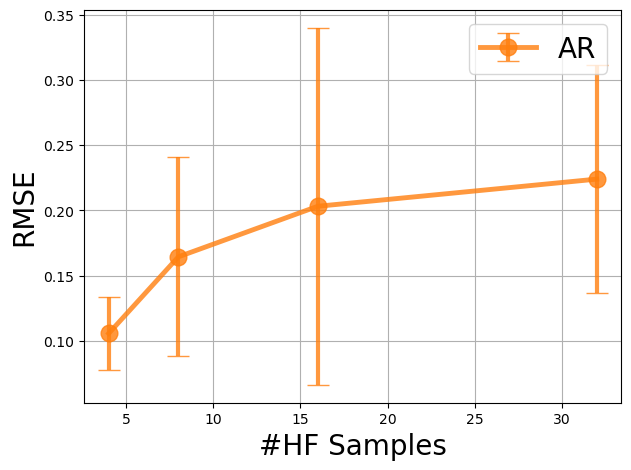
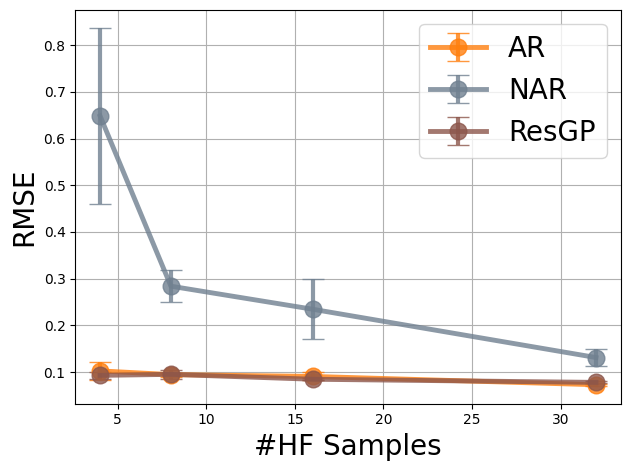
Adjusted the experimental format
Some bug in GAR and CIGAR in experiment need to fix

Changed region(s): [[0.0302, 0.0, 0.9952, 0.983]]

diff --git a/Experiments/GAR_Non_Aligned/exp_non_aligned.py b/Experiments/GAR_Non_Aligned/exp_non_aligned.py
@@ -3,24 +3,12 @@ import os
 sys.path.append(os.path.abspath(os.path.join(os.path.dirname(__file__), '..', '..')))
 
 import GaussianProcess.kernel as kernel
-from FidelityFusion_Models.AR_autoRegression import autoRegression as AR
-from FidelityFusion_Models.ResGP import ResGP
-from FidelityFusion_Models.NAR import NAR
-from FidelityFusion_Models.CIGAR import CIGAR
-from FidelityFusion_Models.GAR import GAR
-
-from FidelityFusion_Models.AR_autoRegression import train_AR
-from FidelityFusion_Models.ResGP import train_ResGP
-from FidelityFusion_Models.NAR import train_NAR
-from FidelityFusion_Models.CIGAR import train_CIGAR
-from FidelityFusion_Models.GAR import train_GAR
-
+from FidelityFusion_Models import *
 from FidelityFusion_Models.MF_data import MultiFidelityDataManager
 from Experiments.calculate_metrix import calculate_metrix
 
 import torch
 import time
-import torch.nn as nn
 import pandas as pd
 
 
@@ -41,12 +29,12 @@ gen_dataset = ['poisson_v4_02',
 interp_data = False
 
 model_dic = {'AR': AR, 'ResGP': ResGP, 'NAR': NAR, 'CIGAR': CIGAR, 'GAR': GAR}
-train_dic = {'AR': train_AR,'ResGp': train_ResGP, 'NAR': train_NAR,'CIGAR': train_CIGAR, 'GAR': train_GAR}
+train_dic = {'AR': train_AR,'ResGP': train_ResGP, 'NAR': train_NAR,'CIGAR': train_CIGAR, 'GAR': train_GAR}
 
 if __name__ == '__main__':
         
-        # method_list = ['AR', 'ResGP', 'NAR', 'CIGAR', 'GAR']
-        method_list = ['AR']
+        method_list = ['CIGAR']
+        # method_list = ['AR']
         for method in method_list:
             for _data_name in ['sample_data']:
                 for _seed in [0, 1]:
@@ -70,6 +58,10 @@ if __name__ == '__main__':
 
                         x_test = torch.linspace(0, 20, 100).reshape(-1, 1)
                         y_test = torch.sin(x_test)
+
+                        src_y_shape = y_high1.shape[1:]
+                        low_shape = [y_low[0].shape]
+                        high_shape = [y_high1[0].shape, y_high1[0].shape]
                     
                         initial_data = [
                                             {'fidelity_indicator': 0,'raw_fidelity_name': '0', 'X': x_low, 'Y': y_low},
@@ -78,14 +70,22 @@ if __name__ == '__main__':
 
                         T1 = time.time()
                         fidelity_manager = MultiFidelityDataManager(initial_data)
-                        kernel1 = kernel.SumKernel(kernel.LinearKernel(1), kernel.MaternKernel(1))
-                        model = model_dic[method](fidelity_num=2, kernel=kernel1, rho_init=1.0)
+                        kernel1 = kernel.SquaredExponentialKernel(length_scale = 1., signal_variance = 1.)
+
+                        if method == 'AR':
+                            model = model_dic[method](fidelity_num=2, kernel=kernel1, rho_init=1.0)
+                        elif method in ['CIGAR', 'GAR']:
+                            model = model_dic[method](fidelity_num=2, kernel=kernel1, l_shape=low_shape, h_shape=high_shape)
+                        else:
+                            model = model_dic[method](fidelity_num=2, kernel=kernel1)
 
                         train_dic[method](model, fidelity_manager, max_iter=100, lr_init=1e-2)
 
                         with torch.no_grad():
                             ypred, ypred_var = model(fidelity_manager,x_test)
-
+        
+                        # ypred = ypred.reshape(-1, * src_y_shape)
+                        # ypred_var = ypred_var.reshape(-1, * src_y_shape)
 
                         metrics = calculate_metrix(y_test = y_test, y_mean_pre = ypred.reshape(-1, 1), y_var_pre = ypred_var)
 

diff --git a/Experiments/GAR_Non_Aligned/exp_ar.py b/Experiments/GAR_Non_Aligned/exp_ar.py
@@ -3,17 +3,28 @@ import os
 sys.path.append(os.path.abspath(os.path.join(os.path.dirname(__file__), '..', '..')))
 
 import GaussianProcess.kernel as kernel
-from FidelityFusion_Models.AR_autoRegression import autoRegression
-from FidelityFusion_Models.AR_autoRegression import train_AR
+from FidelityFusion_Models import *
 from FidelityFusion_Models.MF_data import MultiFidelityDataManager
 from Experiments.calculate_metrix import calculate_metrix
 
 import torch
 import time
-import torch.nn as nn
 import pandas as pd
 
-
+model_dict = {
+    'AR': AR,
+    'ResGP': ResGP,
+    'NAR': NAR,
+    'CIGAR': CIGAR,
+    'GAR': GAR,
+}
+train_model = {
+    'AR': train_AR,
+    'ResGP': train_ResGP,
+    'NAR': train_NAR,
+    'CIGAR': train_CIGAR,
+    'GAR': train_GAR,
+}
 real_dataset = ['FlowMix3D_MF',
                 'MolecularDynamic_MF', 
                 'plasmonic2_MF', 
@@ -31,7 +42,8 @@ gen_dataset = ['poisson_v4_02',
 interp_data = False
 
 if __name__ == '__main__':
-        
+    model_sum = ['AR'] 
+    for model_name in model_sum:  
         for _data_name in ['sample_data']:
             for _seed in [0,1]:
                 recording = {'train_sample_num':[], 'rmse':[], 'nrmse':[], 'r2':[], 'nll':[], 'time':[]}
@@ -44,9 +56,9 @@ if __name__ == '__main__':
                     xlow_indices = torch.sort(xlow_indices).values
                     x_low = x_all[xlow_indices]
 
-                    xhigh_indices = torch.randperm(300)[:_high_fidelity_num]
+                    xhigh_indices = torch.randperm(500)[:_high_fidelity_num]
                     xhigh_indices = torch.sort(xhigh_indices).values
-                    x_high1 = x_low[xhigh_indices]
+                    x_high1 = x_all[xhigh_indices]
 
                     y_low = torch.sin(x_low) - torch.rand(300, 1) * 0.2 
                     y_high1 = torch.sin(x_high1) - torch.rand(_high_fidelity_num, 1) * 0.1
@@ -62,12 +74,16 @@ if __name__ == '__main__':
                     T1 = time.time()
                     fidelity_manager = MultiFidelityDataManager(initial_data)
                     kernel1 = kernel.SumKernel(kernel.LinearKernel(1), kernel.MaternKernel(1))
-                    AR = autoRegression(fidelity_num=2,kernel=kernel1,rho_init=1.0)
+                    model_define = model_dict[model_name]
+                    if model_name in ['CIGAR', 'GAR']:
+                        pass
+                    else:
+                        model = model_define(fidelity_num=2,kernel=kernel1)
 
-                    train_AR(AR,fidelity_manager, max_iter=100, lr_init=1e-2)
+                    train_model[model_name](model,fidelity_manager, max_iter=100, lr_init=1e-2)
 
                     with torch.no_grad():
-                        ypred, ypred_var = AR(fidelity_manager,x_test)
+                        ypred, ypred_var = model(fidelity_manager,x_test)
 
 
                     metrics = calculate_metrix(y_test = y_test, y_mean_pre = ypred.reshape(-1, 1), y_var_pre = ypred_var)

diff --git a/FidelityFusion_Models/GAR.py b/FidelityFusion_Models/GAR.py
@@ -11,11 +11,11 @@ from FidelityFusion_Models.MF_data import MultiFidelityDataManager
 import matplotlib.pyplot as plt
         
 class GAR(torch.nn.Module):
-    def __init__(self, kernel, l_shape, h_shape, fidelity, nonsubset = False):
+    def __init__(self, fidelity_num, kernel, l_shape, h_shape, nonsubset = False):
         super().__init__()
         self.l_shape = l_shape
         self.h_shape = h_shape
-        self.fidelity_num = fidelity
+        self.fidelity_num = fidelity_num
         self.hogp_list = []
         for i in range(self.fidelity_num):
             self.hogp_list.append(HOGP_simple(kernel = kernel, noise_variance = 1.0, output_shape = h_shape[i]))
@@ -42,14 +42,14 @@ class GAR(torch.nn.Module):
                 if fidelity_num == 1:
                     mean_high = mean_low
                     var_high = var_low
-                    var_high = torch.diag_embed(torch.flatten(var_high))
+                    # var_high = torch.diag_embed(torch.flatten(var_high))
             else:
                 x_train, _ = data_manager.get_data_by_name('res-{}'.format(i_fidelity))
                 mean_res, var_res = self.hogp_list[i_fidelity].forward(x_train, x_test)
 
                 mean_high = self.Tensor_linear_list[i_fidelity - 1](mean_low) + mean_res
                 var_high = self.Tensor_linear_list[i_fidelity - 1](var_low) + var_res
-                var_high = torch.diag_embed(torch.flatten(var_high))
+                # var_high = torch.diag_embed(torch.flatten(var_high))
 
                 ## for next fidelity
                 mean_low = mean_high
@@ -135,7 +135,7 @@ if __name__ == "__main__":
     fidelity_manager = MultiFidelityDataManager(initial_data)
 
     kernel1 = kernel.SquaredExponentialKernel(length_scale = 1., signal_variance = 1.)
-    myGAR = GAR(kernel1, low_shape, high_shape, fidelity = 3, nonsubset = True)
+    myGAR = GAR(3 ,kernel1, low_shape, high_shape, nonsubset = True)
 
     train_GAR(myGAR, fidelity_manager, max_iter = 100, lr_init = 1e-3)
 

diff --git a/FidelityFusion_Models/CIGAR.py b/FidelityFusion_Models/CIGAR.py
@@ -11,11 +11,11 @@ from FidelityFusion_Models.MF_data import MultiFidelityDataManager
 import matplotlib.pyplot as plt
         
 class CIGAR(torch.nn.Module):
-    def __init__(self, kernel, l_shape, h_shape, fidelity, nonsubset = False):
+    def __init__(self, fidelity_num, kernel, l_shape, h_shape, nonsubset = False):
         super().__init__()
         self.l_shape = l_shape
         self.h_shape = h_shape
-        self.fidelity_num = fidelity
+        self.fidelity_num = fidelity_num
         self.cigp_list = []
         for i in range(self.fidelity_num):
             self.cigp_list.append(GPR(kernel = kernel, noise_variance = 1.0))
@@ -140,9 +140,9 @@ if __name__ == "__main__":
     fidelity_manager = MultiFidelityDataManager(initial_data)
 
     kernel1 = kernel.SquaredExponentialKernel(length_scale = 1., signal_variance = 1.)
-    myCIGAR = CIGAR(kernel1, low_shape, high_shape, fidelity = 3, nonsubset = True)
+    myCIGAR = CIGAR(3,kernel1, low_shape, high_shape, nonsubset = True)
 
-    train_CIGAR(myCIGAR, fidelity_manager, max_iter = 300, lr_init = 1e-3)
+    train_CIGAR(myCIGAR, fidelity_manager, max_iter = 3, lr_init = 1e-3)
 
     with torch.no_grad():
         ypred, ypred_var = myCIGAR(fidelity_manager, x_test)

diff --git a/FidelityFusion_Models/AR_autoRegression.py b/FidelityFusion_Models/AR_autoRegression.py
@@ -8,7 +8,7 @@ from GaussianProcess.gp_basic import GP_basic as GPR
 from FidelityFusion_Models.MF_data import MultiFidelityDataManager
 import matplotlib.pyplot as plt
 
-class autoRegression(nn.Module):
+class AR(nn.Module):
     # initialize the model
     def __init__(self, fidelity_num, kernel, rho_init = 1.0, nonsubset = False):
         super().__init__()
@@ -118,13 +118,13 @@ if __name__ == "__main__":
 
     fidelity_manager = MultiFidelityDataManager(initial_data)
     kernel1 = kernel.SumKernel(kernel.LinearKernel(1), kernel.MaternKernel(1))
-    AR = autoRegression(fidelity_num=3,kernel=kernel1,rho_init=1.0,nonsubset=True)
+    myAR = AR(fidelity_num=3,kernel=kernel1,rho_init=1.0,nonsubset=True)
 
     ## if nonsubset is False, max_iter should be 100 ,lr can be 1e-2
-    train_AR(AR,fidelity_manager, max_iter=500, lr_init=1e-3)
+    train_AR(myAR,fidelity_manager, max_iter=500, lr_init=1e-3)
 
     with torch.no_grad():
-        ypred, ypred_var = AR(fidelity_manager,x_test)
+        ypred, ypred_var = myAR(fidelity_manager,x_test)
 
     plt.figure()
     plt.errorbar(x_test.flatten(), ypred.reshape(-1).detach(), ypred_var.diag().sqrt().squeeze().detach(), fmt='r-.' ,alpha = 0.2)

diff --git a/FidelityFusion_Models/__init__.py b/FidelityFusion_Models/__init__.py
@@ -1,13 +1,4 @@
-# from AR_autoRegression import autoRegression, train_AR
-# from CIGAR import CIGAR, train_CIGAR
-# from CAR_ContinuousAutoRegression import ContinuousAutoRegression, train_CAR
-# # from CAR_ContinuousAutoRegression_Large import ContinuousAutoRegression, train_CAR
-# from GAR import GAR, train_GAR
-# from MF_data import MultiFidelityDataManager
-# from NAR import NAR, train_NAR
-# from ResGP import ResGP, train_ResGP
-
-from FidelityFusion_Models.AR_autoRegression import autoRegression, train_AR
+from FidelityFusion_Models.AR_autoRegression import AR, train_AR
 from FidelityFusion_Models.CIGAR import CIGAR, train_CIGAR
 from FidelityFusion_Models.CAR_ContinuousAutoRegression import ContinuousAutoRegression, train_CAR
 # from CAR_ContinuousAutoRegression_Large import ContinuousAutoRegression, train_CAR

diff --git a/Experiments/GAR_Non_Aligned/exp_gar.py b/Experiments/GAR_Non_Aligned/exp_gar.py
@@ -68,7 +68,7 @@ if __name__ == '__main__':
                     high_shape=[y_high1[0].shape, y_high1[0].shape]
 
                     kernel1 = kernel.SquaredExponentialKernel(length_scale = 1., signal_variance = 1.)
-                    myGAR = GAR(kernel1, low_shape, high_shape, fidelity = 2)
+                    myGAR = GAR(2,kernel1, low_shape, high_shape,)
                     train_GAR(myGAR, fidelity_manager, max_iter=100, lr_init=1e-2)
                     with torch.no_grad():
                         ypred, ypred_var = myGAR(fidelity_manager, x_test)

diff --git a/Experiments/GAR_Non_Aligned/pic_non_aligned_data.py b/Experiments/GAR_Non_Aligned/pic_non_aligned_data.py
@@ -14,7 +14,7 @@ Dic = {'AR': ['#ff7f0e', "o", "solid", "AR"],
         }
 
 data_name = 'sample_data'
-methods_name_list = ['AR']
+methods_name_list = ['AR','NAR','ResGP']
 
 for methods_name in methods_name_list:
     ct = []
